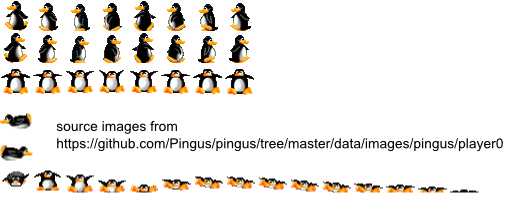
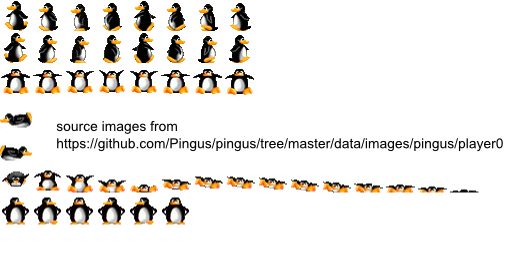
issue #50: add waiting state (that cannot be reached yet)

Changed region(s): [[0.0, 0.0, 1.0, 0.875]]

diff --git a/src/model/Pingus.cpp b/src/model/Pingus.cpp
@@ -43,7 +43,7 @@ static const qreal SPLATTING_TIME = 0.32; // seconds, twice the FALLING_TIME
 static const qreal WALKING_SPEED  = 0.50; // m/s
 static const qreal WALKINGSEQS_PER_SECOND = 1.5; // 1.5 sequences per horizontal distance of [walking speed*1second]
 
-const unsigned int Pingus::FramesPerState[] = { 8, 8, 8, 1, 1, 16, 1};
+const unsigned int Pingus::FramesPerState[] = { 8, 8, 8, 1, 1, 16, 6, 1};
 
 
 Pingus::Pingus()
@@ -85,6 +85,9 @@ void Pingus::callbackStep (qreal aDeltaTime, qreal aTotalTime)
 		break;
 	case SPLATTING:
 		callbackStepSplatting(aDeltaTime, aTotalTime);
+		break;
+	case WAITING:
+		callbackStepWaiting(aDeltaTime, aTotalTime);
 		break;
 	case DEAD:
 		// nothing to do
@@ -196,6 +199,11 @@ void Pingus::callbackStepWalking(qreal aTimeStep, qreal aTotalTime)
 }
 
 
+void Pingus::callbackStepWaiting(qreal aTimeStep, qreal aTotalTime)
+{
+}
+
+
 void Pingus::createPhysicsObject(void)
 {
 	theState = FALLING;
@@ -278,6 +286,9 @@ Pingus::States Pingus::goToState(Pingus::States aNewState)
 			{
 				/* do nothing */;
 			}
+			break;
+		case WAITING:
+			// nothing to be done here...
 			break;
 		case DEAD:
 			// nothing to be done here...

diff --git a/src/model/Pingus.h b/src/model/Pingus.h
@@ -64,8 +64,8 @@ public:
 		SLIDELEFT,
 		SLIDERIGHT,
 		SPLATTING,
-		// WAITING,
-		// SOARING,
+		WAITING,
+		// SOARING, would be neat if ever we have time to add parachuting
 		DEAD	// keep this one last!
 	};
 
@@ -109,6 +109,7 @@ private:
 	void callbackStepFalling (qreal aTimeStep, qreal aTotalTime);
 	void callbackStepSliding (qreal aTimeStep, qreal aTotalTime);
 	void callbackStepSplatting (qreal aTimeStep, qreal aTotalTime);
+	void callbackStepWaiting (qreal aTimeStep, qreal aTotalTime);
 	void callbackStepWalking (qreal aTimeStep, qreal aTotalTime);
 
 private:
@@ -125,6 +126,9 @@ private:
 	qreal theSplattingTimeStart;
 	/// We need to keep track of falling start for the animation.
 	qreal theFallingTimeStart;
+	/// We need to keep track of waiting start for the animation
+	/// *and* for doing checks whether walking is possible again.
+	qreal theWaitingTimeStart;
 };
 
 
